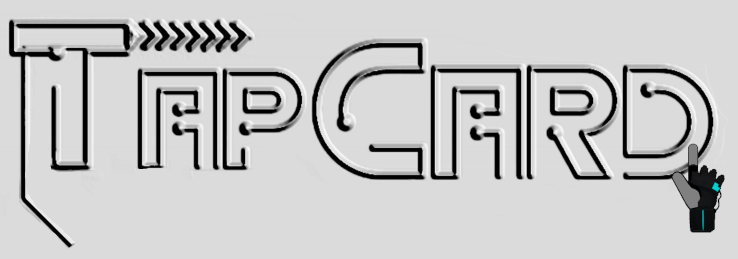
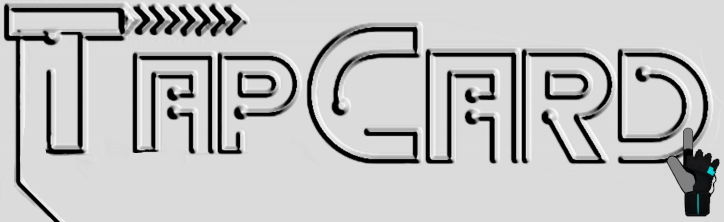
headerfix

Changed region(s): [[0.0, 0.0, 1.0, 1.0]]

diff --git a/client/src/signupStyle.css b/client/src/signupStyle.css
@@ -144,7 +144,7 @@ nav a:hover {
   margin: 5px 0;
   border-radius: var(--border-radius);
   border: none;
-  color: rgb(48, 0, 219);
+  color: rgb(39, 156, 252);
   outline: none;
   background-color: black;
   transition: all 0.5s;
@@ -174,22 +174,22 @@ nav a:hover {
   margin: 0 0 20px 0;
   border: 3px solid var(--dark);
   border-radius: var(--border-radius);
-  backgroundColor: 'rgba(52, 52, 52, 0.8)';
+  background-color: 'rgba(52, 52, 52, 0.8)';
   color: var(--dark);
 }
 
 .signHeader {
   color: rgb(0, 78, 247);
   margin: 0;
-  background-color: var(--dark);
+  background-color: 'rgba(52, 52, 52, 0.8)';
   padding: 0.625rem;
   border-radius: calc(0.18rem - 1px) calc(0.18rem - 1px) 0 0;
+  border-color: #00b3ff;
 }
 
 .signBody {
   padding: 2.5%;
-  font-size: 1.4rem;
-  
+  font-size: 1.4rem; 
 }
 
 /* FORM */
@@ -211,6 +211,7 @@ nav a:hover {
   font-size: 1.2rem;
   border: 2px solid var(--dark);
   border-radius: var(--border-radius);
+  border-color: #003cff;
 }
 
 [type='radio']:checked,

diff --git a/client/src/index.css b/client/src/index.css
@@ -1,10 +1,10 @@
 :root {
-  --primary: #497573;
-  --secondary: #1f3431;
+  --primary: #05cdfa;
+  --secondary: #f9f9fcde;
   --tertiary: #b2c2c1;
   --quatrinary: #cadbda;
-  --light: #e1f5f4;
-  --dark: #6c7575;
+  --light: #575656;
+  --dark: #303030;
   --error: rgb(228, 46, 1);
   --border-radius: 0.3rem;
   --spacing-one: calc(1rem * 0.25);
@@ -114,8 +114,8 @@ nav a {
 }
 
 nav a:hover {
-  color: var(--secondary);
-  background-color: var(--dark);
+  color:gray;
+  background-color: black;
 }
 
 .page-title {
@@ -141,8 +141,8 @@ nav a:hover {
 
 .btn:hover,
 .pill:hover {
-  color: var(--secondary);
-  background-color: var(--dark);
+  color: rgb(190, 187, 187);
+  background-color: rgb(94, 94, 94);
 }
 
 .btn:hover a,
@@ -166,7 +166,7 @@ nav a:hover {
 .card-header {
   color: var(--secondary);
   margin: 0;
-  background-color: var(--dark);
+  background-color: rgb(10, 116, 254);
   padding: 0.625rem;
   border-radius: calc(0.18rem - 1px) calc(0.18rem - 1px) 0 0;
 }

diff --git a/client/src/components/Header/index.js b/client/src/components/Header/index.js
@@ -1,7 +1,7 @@
 import React from 'react';
 import { Link } from 'react-router-dom';
-
 import Auth from '../../utils/auth';
+import image from '../../images/tapcardsilver.png';
 
 const Header = () => {
   const logout = event => {
@@ -13,7 +13,7 @@ const Header = () => {
     <header className="bg-secondary mb-4 py-2 flex-row align-center">
       <div className="container flex-row justify-space-between-lg justify-center align-center">
         <Link to="/">
-          <h1>TapCard!</h1>
+          <h1><img src={image} height={100} width={400} /></h1>
         </Link>
 
         <nav className="text-center">

diff --git a/client/src/pages/Home.js b/client/src/pages/Home.js
@@ -16,7 +16,7 @@ const loggedIn = Auth.loggedIn();
 
 
   return (
-    <main>
+    <div className='home-bg'>
         <div className="col-12 mb-3">
             This is the Tap Car Home page, we are still working on this, don't design until functionality is done, thanks!
         </div>
@@ -46,7 +46,7 @@ const loggedIn = Auth.loggedIn();
             </div>
             ) : null}
         </div>
-    </main>
+    </div>
   );
 };
 

diff --git a/client/src/pages/Signup.js b/client/src/pages/Signup.js
@@ -3,6 +3,8 @@ import { useMutation } from '@apollo/client';
 import { ADD_USER } from '../utils/mutations';
 import '../../src/signupStyle.css'
 import Auth from '../utils/auth';
+import useSound from 'use-sound';
+import submitsound from '../audio/mouseoversub.mp3'
 
 const Signup = () => {
   const [formState, setFormState] = useState({

diff --git a/client/src/index.js b/client/src/index.js
@@ -3,6 +3,7 @@ import ReactDOM from 'react-dom';
 import './index.css';
 import App from './App';
 import reportWebVitals from './reportWebVitals';
+import useSound from 'use-sound';
 
 ReactDOM.render(
   <React.StrictMode>
